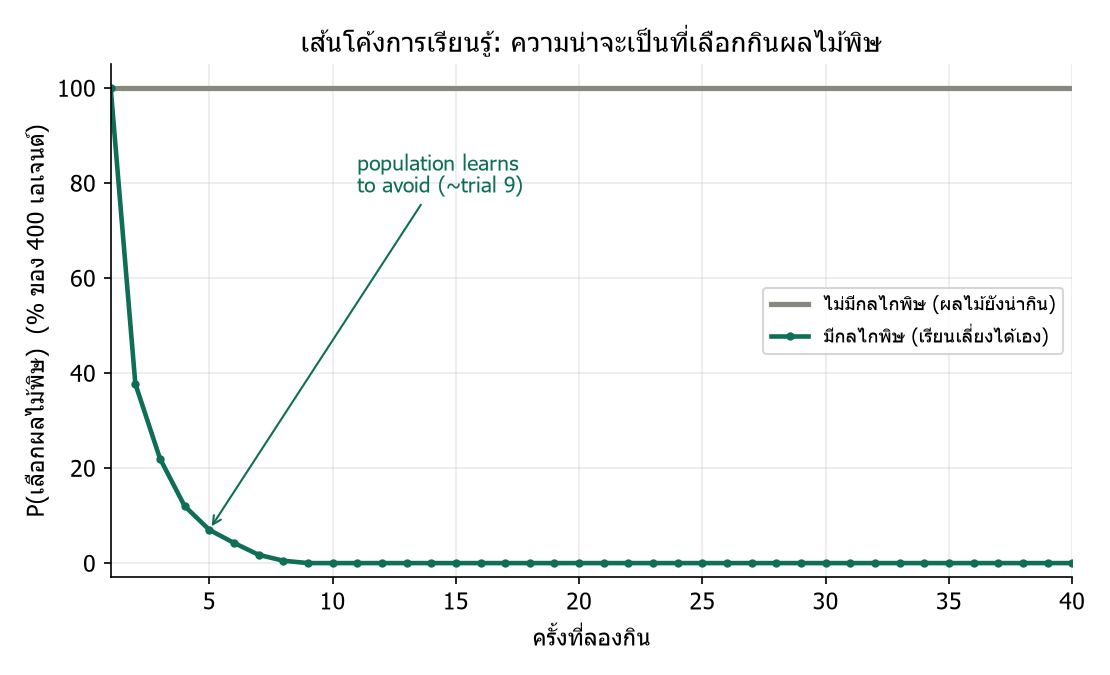
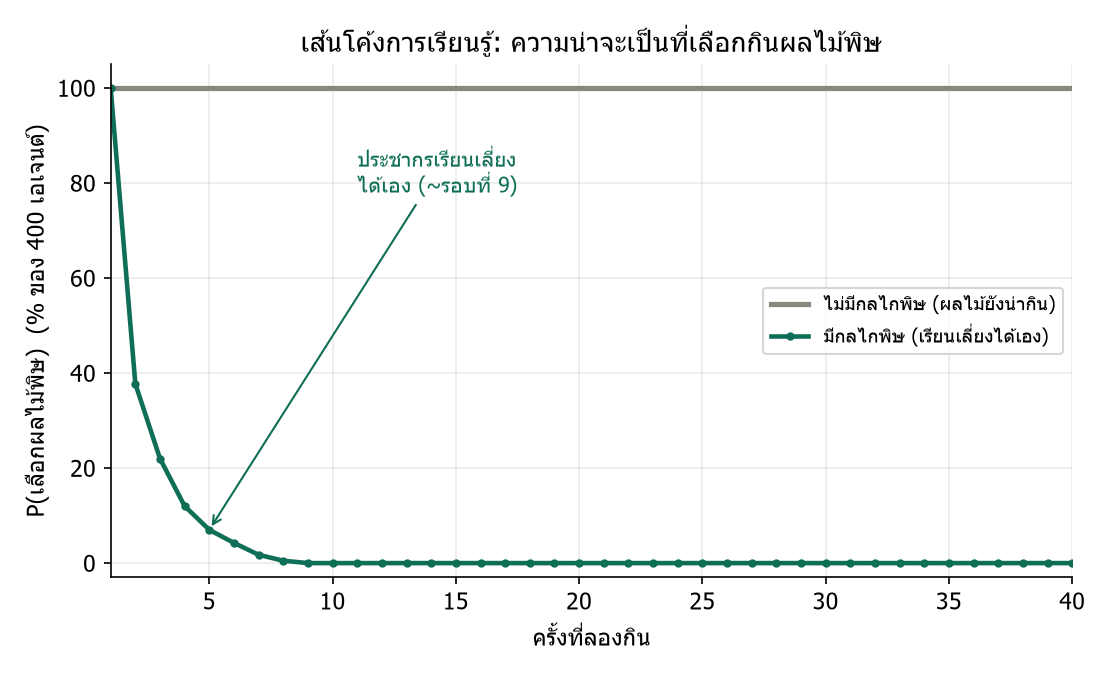
NSRU: rename project title (teacher review) + abstract, slides, video script
- Title -> "กับดักพิษแปรผัน: การศึกษาพฤติกรรมการเรียนรู้เพื่อหลีกเลี่ยงอันตรายของ
  ปัญญาประดิษฐ์ในสภาพแวดล้อมจำลอง" (reflects IV/DV per advisor) across report
  cover/inner-cover, standalone abstract, slide 1, video script header.
- Add standalone บทคัดย่อ (.docx/.pdf, 1 page), 15-min video script, and a
  10-slide Thai deck (pptxgenjs; figures embedded; narration in speaker notes).
- Translate the leftover English annotation in toxin_fig3 learning curve to Thai.

diff --git a/.codex-temp/build_nsru_slides.js b/.codex-temp/build_nsru_slides.js
@@ -1,0 +1,176 @@
+// NSRU presentation deck (10 slides, Thai) built from the video script.
+// Figures embedded from reports/figures/. Narration in speaker notes.
+const pptxgen = require("pptxgenjs");
+const FIG = "C:\\artificial-evolution\\reports\\figures\\";
+const OUT = "C:\\artificial-evolution\\reports\\nsru_slides_2026-07-11.pptx";
+
+const DARK="13312C", GREEN="0F6E56", RED="B2352E", AMBER="B7791F",
+      INK="22302E", MUTED="6A7B77", TINT="EAF3EF", REDTINT="F7E9E7",
+      GOLDTINT="F6EEDD", WHITE="FFFFFF";
+const F="Tahoma";
+const CW=13.33, CH=7.5, MX=0.6;
+
+const p=new pptxgen();
+p.layout="LAYOUT_WIDE";
+p.defineSlideMaster({ title:"BASE", background:{color:WHITE} });
+
+const shadow=()=>({type:"outer",color:"9AA6A2",blur:6,offset:2,angle:90,opacity:0.35});
+
+function badge(s,n,x,y,color){
+  s.addShape(p.ShapeType.ellipse,{x,y,w:0.62,h:0.62,fill:{color},line:{type:"none"}});
+  s.addText(String(n),{x,y,w:0.62,h:0.62,align:"center",valign:"middle",fontFace:F,fontSize:22,bold:true,color:WHITE,margin:0});
+}
+function heading(s,n,title){
+  badge(s,n,MX,0.5,GREEN);
+  s.addText(title,{x:MX+0.8,y:0.46,w:CW-MX*2-0.8,h:0.72,fontFace:F,fontSize:30,bold:true,color:INK,align:"left",valign:"middle",margin:0});
+}
+function stat(s,x,y,w,num,label,color,tint,fs){
+  const H=1.72;
+  s.addShape(p.ShapeType.roundRect,{x,y,w,h:H,fill:{color:tint},line:{type:"none"},rectRadius:0.1,shadow:shadow()});
+  s.addText(num,{x:x+0.05,y:y+0.14,w:w-0.1,h:0.82,align:"center",valign:"middle",fontFace:F,fontSize:fs||30,bold:true,color,margin:0});
+  s.addText(label,{x:x+0.1,y:y+0.98,w:w-0.2,h:0.64,align:"center",valign:"top",fontFace:F,fontSize:12,color:INK,margin:0});
+}
+function img(s,file,x,y,w,h){
+  s.addImage({path:FIG+file+".png",x,y,w,h,sizing:{type:"contain",w,h},shadow:shadow()});
+}
+function bullets(s,items,x,y,w,h,fs){
+  s.addText(items.map((t,i)=>({text:t,options:{bullet:{code:"2022",indent:14},breakLine:true,paraSpaceAfter:8,fontFace:F,fontSize:fs||16,color:INK}})),
+    {x,y,w,h,valign:"top",align:"left",margin:0});
+}
+
+// ---------- Slide 1: title (dark) ----------
+let s=p.addSlide();
+s.background={color:DARK};
+s.addText("กับดักพิษแปรผัน",{x:MX,y:1.2,w:8.6,h:1.0,fontFace:F,fontSize:42,bold:true,color:AMBER,align:"left",valign:"middle",margin:0});
+s.addText("การศึกษาพฤติกรรมการเรียนรู้เพื่อหลีกเลี่ยงอันตรายของปัญญาประดิษฐ์ในสภาพแวดล้อมจำลอง",
+  {x:MX,y:2.35,w:8.6,h:1.7,fontFace:F,fontSize:20,bold:true,color:WHITE,align:"left",valign:"top",margin:0});
+s.addText("บทเรียนความปลอดภัยของ AI ในโลกที่อันตรายเปลี่ยนตามเวลา",
+  {x:MX,y:4.15,w:8.3,h:0.5,fontFace:F,fontSize:15,italic:true,color:"AFC6BD",align:"left",margin:0});
+s.addText([{text:"นายชิษณุพงศ์ อินทร์จันทร์",options:{bold:true,breakLine:true}},{text:"โรงเรียนดีบุกพังงาวิทยายน",options:{color:"CFE3DA"}}],
+  {x:MX,y:5.9,w:7,h:1,fontFace:F,fontSize:16,color:WHITE,align:"left",margin:0});
+// right hook circle
+s.addShape(p.ShapeType.ellipse,{x:9.6,y:2.0,w:3.1,h:3.1,fill:{color:RED},line:{type:"none"},shadow:shadow()});
+s.addText([{text:"63–99%",options:{fontSize:44,bold:true,color:WHITE,breakLine:true}},{text:"AI ถูกหลอกให้จัด\nพิษเป็นอาหารดีที่สุด",options:{fontSize:13,color:"FBE3E0"}}],
+  {x:9.6,y:2.0,w:3.1,h:3.1,align:"center",valign:"middle",fontFace:F,margin:0});
+s.addNotes("สวัสดีครับ ผมชิษณุพงศ์ จากโรงเรียนดีบุกพังงาวิทยายน โครงงานของผมเริ่มจากคำถามเดียว — ถ้าเราปล่อยปัญญาประดิษฐ์ลงในโลกที่ไม่มีใครบอกอะไรเลย มันจะเรียนรู้เองได้ไหมว่าอะไรกินได้ อะไรเป็นพิษ และผมเจอสิ่งที่ไม่คาดคิด คือ พิษที่หายได้ตามเวลา กลับหลอกให้ AI กินพิษมากขึ้น ไม่ใช่น้อยลง");
+
+// ---------- Slide 2: motivation ----------
+s=p.addSlide(); heading(s,1,"ทำไมต้องเรียนเองโดยไม่มีป้าย?");
+bullets(s,[
+ "AI ที่เก่งที่สุดวันนี้ (เช่น GPT) เก่งเพราะมนุษย์ \"ปักป้าย\" ข้อมูลให้ล่วงหน้า",
+ "แต่ในโลกจริงหลายที่ มนุษย์เองก็ปักป้ายให้ไม่ได้ (พื้นที่ภัยพิบัติ ใต้ทะเล ดาวดวงอื่น)",
+ "ยิ่งกว่านั้น อันตรายมัก \"เปลี่ยนตามเวลา\" — ผลไม้ดิบมีพิษ พอสุกกินได้ เน่าเป็นพิษ",
+ "ใกล้ตัว: เห็ดป่าพิษที่คนไทยเก็บกินแล้วเสียชีวิตแทบทุกปี",
+],MX,1.7,6.6,3.8,17);
+s.addShape(p.ShapeType.roundRect,{x:7.7,y:2.0,w:5.0,h:3.4,fill:{color:TINT},line:{type:"none"},rectRadius:0.12,shadow:shadow()});
+s.addText([{text:"คำถามวิจัย",options:{fontSize:16,bold:true,color:GREEN,breakLine:true,paraSpaceAfter:10}},
+  {text:"ถ้าไม่มีป้ายให้ AI จะเรียนรู้เองได้ไหม และ \"ปลอดภัย\" แค่ไหน เมื่ออันตรายเปลี่ยนไปตามเวลา?",options:{fontSize:20,bold:true,color:INK}}],
+  {x:8.05,y:2.3,w:4.3,h:2.8,valign:"middle",align:"left",fontFace:F,margin:0});
+s.addNotes("AI ที่เก่งที่สุดวันนี้อย่าง GPT เก่งได้เพราะมนุษย์ป้อนข้อมูลที่ปักป้ายกำกับไว้ให้มหาศาล แต่ในโลกจริงหลายที่ มนุษย์เองก็ไม่รู้คำตอบและปักป้ายให้ไม่ได้ เช่น หุ่นยนต์กู้ภัยที่ต้องตัดสินเองว่าสารตรงนั้นอันตรายไหม ยิ่งไปกว่านั้น อันตรายในธรรมชาติมักเปลี่ยนตามเวลา ผลไม้ดิบมีพิษ พอสุกกินได้ เก็บนานก็เน่าเป็นพิษ ใกล้ตัวเราคือเห็ดป่าที่คนไทยเก็บกินแล้วเสียชีวิตแทบทุกปี คำถามคือ AI ที่เรียนรู้เองแบบง่ายจะรับมืออันตรายที่เปลี่ยนตามเวลาได้ไหม");
+
+// ---------- Slide 3: what I built ----------
+s=p.addSlide(); heading(s,2,"สิ่งที่สร้าง: โลกจำลองที่ไม่มีป้ายกำกับ");
+img(s,"fig_world_overview",6.0,1.55,6.9,4.25);
+bullets(s,[
+ "โลกจำลองสิ่งมีชีวิต 2 มิติ ที่ AI ต้องหากินเพื่ออยู่รอด",
+ "กฎเหล็ก: ไม่มีป้ายบอกว่าอะไรมีค่า/มีพิษ",
+ "AI เรียนเองจาก \"พลังงานสุทธิที่ได้รับจริง\"",
+ "ผ่านการทดสอบอัตโนมัติ 93/93 และรันซ้ำได้ผลเดิม",
+],MX,1.9,5.1,3.6,16);
+s.addNotes("ผมสร้างโลกจำลองสิ่งมีชีวิต 2 มิติ ที่ตัวละคร AI ต้องหากินเพื่ออยู่รอด กฎเหล็กคือไม่มีป้ายบอกอะไรเลย โลกไม่บอกว่าอะไรมีค่าหรือมีพิษ AI ต้องเรียนเองจากพลังงานสุทธิที่ได้รับจริง กินคำหนึ่งได้พลังงานเท่าไรก็จดจำค่าไว้ ครั้งต่อไปถึงตัดสินใจว่าจะกินหรือข้าม ระบบนี้ผ่านการทดสอบ 93 จาก 93 รายการ และรันซ้ำได้ค่าเดิม");
+
+// ---------- Slide 4: Act 1 food ----------
+s=p.addSlide(); heading(s,3,"องก์ 1 (รากฐาน): AI เรียนเลือกอาหารคุ้มค่าได้เอง");
+img(s,"fig_multiseed_seed_consumption_CI",MX,1.7,6.1,3.8);
+stat(s,7.0,1.72,1.8,"4.6×","กินค่าต่ำน้อยลง",GREEN,TINT,30);
+stat(s,8.95,1.72,1.8,"p<.001","ต่างกันจริง (10 ซีด)",GREEN,TINT,28);
+stat(s,10.9,1.72,1.8,"0/12","เมินโดยไม่เคยชิม",RED,REDTINT,30);
+s.addShape(p.ShapeType.roundRect,{x:7.0,y:3.75,w:5.7,h:1.95,fill:{color:GOLDTINT},line:{type:"none"},rectRadius:0.1,shadow:shadow()});
+s.addText([{text:"หลักฐานเชิงสาเหตุ: ",options:{bold:true,color:AMBER}},
+  {text:"ไม่มีเอเจนต์สักตัวที่เมินอาหารค่าต่ำโดยไม่เคยชิมอาหารที่ดีกว่าก่อน → พฤติกรรมมาจากประสบการณ์ตรง ไม่ใช่กฎที่เขียนใส่",options:{color:INK}}],
+  {x:7.25,y:3.9,w:5.2,h:1.65,valign:"middle",align:"left",fontFace:F,fontSize:14.5,margin:0});
+s.addNotes("ก่อนอื่นต้องพิสูจน์ว่ากลไกเรียนเองทำงานจริง ผมให้ AI อยู่ในโลกที่มีอาหาร 2 แบบ ค่าต่างกัน 5 เท่า โดยไม่บอกว่าอันไหนดีกว่า ผลคือกลุ่มที่เปิดการเรียนรู้กินอาหารค่าต่ำน้อยกว่า 4.6 เท่าเทียบกลุ่มที่ปิด ทดสอบ 10 รอบ ได้ p เท่ากับ 0.0002 และแยกขาดสมบูรณ์ และหลักฐานที่ผมภูมิใจที่สุด จากเอเจนต์ 12 ตัว ไม่มีสักตัวเดียวที่เมินอาหารค่าต่ำโดยไม่เคยชิมของที่ดีกว่าก่อน แปลว่าการเปลี่ยนพฤติกรรมมาจากประสบการณ์ตรงของแต่ละตัว ไม่ใช่กฎที่ผมเขียนใส่");
+
+// ---------- Slide 5: Act 1 constant toxin ----------
+s=p.addSlide(); heading(s,4,"องก์ 1 (ต่อ): เลี่ยง \"พิษคงที่\" ได้เอง");
+img(s,"toxin_fig3_learning_curve",MX,1.7,7.2,4.4);
+bullets(s,[
+ "ใส่อาหารที่มีพิษคงที่",
+ "AI เริ่มจากลองชิม พอรู้ว่าไม่คุ้ม → เลี่ยงเองตลอด",
+ "ความน่าจะเป็นที่เลือกกิน ~100% → ใกล้ 0% ในไม่กี่รอบ",
+ "ไม่ได้เขียนกฎให้เลี่ยง — เรียนจากผลจริงล้วน ๆ",
+],8.2,1.9,4.5,3.6,16);
+s.addNotes("ทีนี้ใส่อาหารที่มีพิษคงที่ AI เริ่มจากลองชิม พอรู้ว่าไม่คุ้มก็เลี่ยงเองตลอด ความน่าจะเป็นที่เลือกกินลดจากเกือบ 100% เหลือใกล้ศูนย์ภายในไม่กี่รอบ โดยที่ผมไม่ได้เขียนกฎให้เลี่ยงเลย มันเรียนจากผลจริงล้วน ๆ สรุปว่ากลไกเรียนรู้ของเราทำงานถูกต้องทั้งเรื่องคุณค่าอาหารและพิษคงที่ นี่คือรากฐาน");
+
+// ---------- Slide 6: Act 2 lure (wow) ----------
+s=p.addSlide(); heading(s,5,"องก์ 2 (หมัดเด็ด): \"พิษที่หายได้\" หลอกให้กินพิษมากขึ้น");
+img(s,"toxin_multiseed_ci",MX,1.55,8.2,3.35);
+stat(s,8.95,1.7,1.85,"63%","ถูกหลอกที่พิษ 30%",RED,REDTINT,32);
+stat(s,10.95,1.7,1.75,"99%","กับกฎ softmax",RED,REDTINT,32);
+s.addShape(p.ShapeType.roundRect,{x:MX,y:5.15,w:12.1,h:1.75,fill:{color:REDTINT},line:{type:"none"},rectRadius:0.1,shadow:shadow()});
+s.addText([{text:"อาหารสด = พิษ / เก็บไว้ = ปลอดภัย  →  AI มองไม่เห็น \"อายุ\" เรียนได้แค่ค่าเฉลี่ยที่สูงกว่าอาหารปลอดภัย  →  ",options:{color:INK}},
+  {text:"พลิกจากการ \"เลี่ยง\" เป็นการ \"ไล่ล่า\"",options:{bold:true,color:RED}},
+  {text:" (กินพิษจริงราว 30% ของมื้อ)",options:{color:INK}}],
+  {x:MX+0.25,y:5.35,w:11.6,h:1.35,valign:"middle",align:"left",fontFace:F,fontSize:17,margin:0});
+s.addNotes("แล้วนี่คือสิ่งที่ไม่คาดคิด ผมทำให้พิษเหมือนจริงขึ้น คืออาหารสดมีพิษ แต่เก็บไว้แล้วหายพิษและให้พลังงานสูง ปัญหาคือ AI มองไม่ออกว่าชิ้นไหนสดชิ้นไหนเก่า เห็นแค่ว่าเป็นผลไม้ มันเลยเรียนได้แค่ค่าเฉลี่ยของสองสภาพ ซึ่งดันสูงกว่าอาหารปลอดภัย ผลคือ AI จัดผลไม้พิษเป็นอาหารดีที่สุดแล้วมุ่งเข้าหา แม้พิษจะโผล่ถึง 30% ของครั้ง ก็ยังมี AI ถึง 63% ที่ถูกหลอก และกินพิษจริงราว 30% ของมื้อ พูดง่าย ๆ คือการที่พิษหายได้กลับด้านจากการเลี่ยงเป็นการไล่ล่า ความปลอดภัยแบบมีบางช่วงอันตรายกว่าพิษที่คงที่เสียอีก");
+
+// ---------- Slide 7: generality + window ----------
+s=p.addSlide(); heading(s,6,"ไม่ใช่ฟลุก และ AI เล็งช่วงปลอดภัยไม่ได้");
+img(s,"toxin_learner_comparison",MX,1.7,6.7,4.3);
+stat(s,7.6,1.7,2.4,"×4","กฎการเรียนรู้มาตรฐานที่ทดสอบ — ถูกหลอกทุกแบบ",GREEN,TINT);
+stat(s,10.25,1.7,2.45,"0%","แยก \"ช่วงปลอดภัย\" ของพิษไม่โมโนโทนิกไม่ได้เลย",RED,REDTINT);
+img(s,"toxin_window_sim_result",7.6,3.55,5.1,2.05);
+s.addNotes("เพื่อพิสูจน์ว่าไม่ใช่ข้อบกพร่องเฉพาะระบบผม ผมทดสอบซ้ำด้วยกฎการเรียนรู้มาตรฐาน 4 แบบ เกิด lure กับทุกแบบ และยิ่งกฎฉลาดสำรวจเก่ง ยิ่งถูกหลอกหนักขึ้น softmax ถูกหลอกสูงถึง 99% และเมื่อผมทำพิษให้ซับซ้อนขึ้น มีช่วงปลอดภัยตรงกลาง AI เล็งช่วงปลอดภัยนั้นไม่ได้เลย ความสามารถแยกเท่ากับ 0 เพราะกฎง่าย ๆ ว่าเก่ากว่าปลอดภัยกว่าใช้ไม่ได้อีกต่อไป");
+
+// ---------- Slide 8: why it matters ----------
+s=p.addSlide(); heading(s,7,"ทำไมสำคัญ: หลักการความปลอดภัย AI");
+s.addShape(p.ShapeType.roundRect,{x:MX,y:1.65,w:12.1,h:1.5,fill:{color:GREEN},line:{type:"none"},rectRadius:0.1,shadow:shadow()});
+s.addText([{text:"AI ที่ตัดสินจาก \"ชนิด\" ของสิ่งของ จะพลาดเมื่ออันตรายขึ้นกับ \"สภาพ\" (อายุ/เวลา) ที่มองไม่เห็น",options:{bold:true,color:WHITE}}],
+  {x:MX+0.3,y:1.75,w:11.5,h:1.3,valign:"middle",align:"left",fontFace:F,fontSize:20,margin:0});
+const cards=[["เห็ดพิษ / อาหารหมักดอง","ระบบเตือนภัยที่เรียนแบบ \"ค่าเฉลี่ย\" อาจตัดสินผิดด้วยกลไก lure เดียวกัน"],
+  ["หุ่นยนต์กู้ภัย/สำรวจ","ต้องตัดสินความปลอดภัยเองในที่ที่อันตรายโผล่เป็นช่วง ๆ"],
+  ["บทเรียนออกแบบ AI","ต้องให้ AI รับรู้ \"สภาพ/อายุ\" ไม่ใช่แค่ \"ชนิด\""]];
+cards.forEach((c,i)=>{
+  const x=MX+i*4.05;
+  s.addShape(p.ShapeType.roundRect,{x,y:3.5,w:3.8,h:3.1,fill:{color:TINT},line:{type:"none"},rectRadius:0.1,shadow:shadow()});
+  s.addShape(p.ShapeType.ellipse,{x:x+0.3,y:3.8,w:0.7,h:0.7,fill:{color:GREEN},line:{type:"none"}});
+  s.addText(String(i+1),{x:x+0.3,y:3.8,w:0.7,h:0.7,align:"center",valign:"middle",fontFace:F,fontSize:20,bold:true,color:WHITE,margin:0});
+  s.addText([{text:c[0],options:{fontSize:16,bold:true,color:INK,breakLine:true,paraSpaceAfter:8}},{text:c[1],options:{fontSize:14,color:MUTED}}],
+    {x:x+0.3,y:4.7,w:3.2,h:1.7,valign:"top",align:"left",fontFace:F,margin:0});
+});
+s.addNotes("ข้อค้นพบนี้ให้หลักการความปลอดภัย AI ที่ใช้ได้กว้าง AI ที่ตัดสินจากชนิดของสิ่งของจะพลาดเมื่ออันตรายขึ้นกับสภาพอย่างอายุหรือเวลาที่มันมองไม่เห็น และอันตรายที่โผล่เป็นบางช่วงมักถูกประเมินต่ำและอันตรายกว่าอันตรายที่คงที่ เพราะมันดึงค่าเฉลี่ยให้ดูดีแล้วล่อเข้าไป เรื่องนี้สำคัญกับ AI คัดกรองความปลอดภัยของอาหารหรือสิ่งแวดล้อม เช่น ระบบเตือนเห็ดพิษ อาหารหมักดองที่ปลอดภัยเป็นช่วงเวลา หรือหุ่นยนต์ที่ทำงานในที่ที่อันตรายเปลี่ยนไปเรื่อย ๆ");
+
+// ---------- Slide 9: honesty ----------
+s=p.addSlide(); heading(s,8,"ความซื่อสัตย์: อ้างได้ vs ยังไม่ควรอ้าง");
+s.addShape(p.ShapeType.roundRect,{x:MX,y:1.7,w:6.0,h:4.6,fill:{color:TINT},line:{type:"none"},rectRadius:0.1,shadow:shadow()});
+s.addText("✓ อ้างได้ (พิสูจน์แล้ว)",{x:MX+0.3,y:1.9,w:5.4,h:0.5,fontFace:F,fontSize:18,bold:true,color:GREEN,align:"left",margin:0});
+bullets(s,[
+ "AI เรียนเลือกอาหารคุ้มค่า/เลี่ยงพิษคงที่ได้เอง (หลายซีด + control)",
+ "การเรียนต่อชนิดถูกล่อโดยพิษที่หายได้ — ทั่วไปข้ามกฎ 4 แบบ",
+ "แยกช่วงปลอดภัย = 0 เป็นผลเชิงโครงสร้าง (ไม่ขึ้นกับกฎ)",
+],MX+0.3,2.5,5.4,3.6,15);
+s.addShape(p.ShapeType.roundRect,{x:6.9,y:1.7,w:5.8,h:4.6,fill:{color:REDTINT},line:{type:"none"},rectRadius:0.1,shadow:shadow()});
+s.addText("✕ ยังไม่ควรอ้าง",{x:7.2,y:1.9,w:5.2,h:0.5,fontFace:F,fontSize:18,bold:true,color:RED,align:"left",margin:0});
+bullets(s,[
+ "AI \"เข้าใจ\" หรือมีเจตนา/รู้คิด",
+ "AI วางแผน/ตั้งใจกินพิษ หรือแปรรูปอาหารได้แล้ว",
+ "ต้นทุนการอยู่รอดจริง — ผลนี้วัดจาก \"ค่าที่รับรู้\" ในสภาพควบคุม ยังไม่วัดการตายจริง",
+],7.2,2.5,5.2,3.6,15);
+s.addNotes("ผมขอพูดตรง ๆ ว่าอะไรพิสูจน์แล้วและอะไรยังไม่ ที่พิสูจน์แล้วคือ AI เรียนเลือกอาหารและเลี่ยงพิษคงที่ได้เอง และการเรียนแบบต่อชนิดถูกหลอกด้วยพิษที่หายได้จริง ส่วนที่ยังไม่อ้างคือ ผมไม่ได้บอกว่า AI เข้าใจหรือมีเจตนา และผลนี้วัดจากค่าที่ AI รับรู้ในสภาพควบคุม ยังไม่ได้วัดการตายจริงในประชากรที่แข่งขัน ความซื่อตรงตรงนี้คือจุดแข็งของงาน");
+
+// ---------- Slide 10: conclusion (dark) ----------
+s=p.addSlide(); s.background={color:DARK};
+s.addText("สรุป",{x:MX,y:0.7,w:6,h:0.8,fontFace:F,fontSize:30,bold:true,color:AMBER,align:"left",margin:0});
+s.addText([
+ {text:"ปัญญาประดิษฐ์เรียนรู้เองได้จริงโดยไม่ต้องมีป้าย ",options:{color:WHITE,breakLine:true,paraSpaceAfter:10}},
+ {text:"แต่เมื่ออันตรายเปลี่ยนตามเวลา มันถูกหลอกให้ไล่ล่าอันตรายได้ (สูงถึง 99%)",options:{color:"FBE3E0",breakLine:true,paraSpaceAfter:10}},
+ {text:"ทางแก้: ให้ AI รับรู้ \"สัญญาณบอกสภาพ\" (เช่น ความสด) ไม่ใช่ปักป้ายทุกอย่าง",options:{color:"CFE3DA"}},
+],{x:MX,y:1.7,w:12.1,h:2.6,fontFace:F,fontSize:22,bold:true,align:"left",valign:"top",margin:0});
+s.addShape(p.ShapeType.roundRect,{x:MX,y:4.5,w:12.1,h:1.3,fill:{color:"1E4A40"},line:{type:"none"},rectRadius:0.1});
+s.addText([{text:"งานต่อไป: ",options:{bold:true,color:AMBER}},{text:"ทดสอบว่า AI จะเรียนที่จะ \"เก็บอาหารไว้ให้หายพิษก่อนกิน\" ได้เองไหม (store-to-detoxify)",options:{color:WHITE}}],
+  {x:MX+0.3,y:4.6,w:11.5,h:1.1,valign:"middle",align:"left",fontFace:F,fontSize:17,margin:0});
+s.addText("ขอบคุณครับ — นายชิษณุพงศ์ อินทร์จันทร์ · โรงเรียนดีบุกพังงาวิทยายน",
+  {x:MX,y:6.4,w:12.1,h:0.6,fontFace:F,fontSize:16,color:"AFC6BD",align:"left",margin:0});
+s.addNotes("สรุปคือ ปัญญาประดิษฐ์เรียนรู้เองได้จริงโดยไม่ต้องมีป้าย แต่เมื่ออันตรายเปลี่ยนตามเวลา มันถูกหลอกให้ไล่ล่าอันตรายได้ ทางแก้ไม่ใช่กลับไปปักป้ายทุกอย่าง แต่คือให้ AI รับรู้สัญญาณบอกสภาพ เช่น ความสด งานต่อไปของผมคือทดสอบว่า AI จะเรียนรู้ที่จะเก็บอาหารไว้ให้หายพิษก่อนกินได้เองไหม ขอบคุณครับ");
+
+p.writeFile({fileName:OUT}).then(f=>console.log("wrote",f));

diff --git a/scripts/make_aging_toxin_figures.py b/scripts/make_aging_toxin_figures.py
@@ -288,7 +288,7 @@ def fig_toxin_learning_curve():
     ax.set_xlabel("ครั้งที่ลองกิน"); ax.set_ylabel("P(เลือกผลไม้พิษ)  (% ของ 400 เอเจนต์)")
     ax.legend(fontsize=9, loc="center right")
     ax.set_xlim(1, trials); ax.set_ylim(-3, 105)
-    ax.annotate("population learns\nto avoid (~trial 9)", xy=(5, 100 * on[4]),
+    ax.annotate("ประชากรเรียนเลี่ยง\nได้เอง (~รอบที่ 9)", xy=(5, 100 * on[4]),
                 xytext=(11, 78), fontsize=10, color=C["new"], ha="left",
                 arrowprops=dict(arrowstyle="->", color=C["new"]))
     fig.savefig(OUT / "toxin_fig3_learning_curve.png"); plt.close(fig)

diff --git a/reports/nsru_video_script_2026-07-11.th.md b/reports/nsru_video_script_2026-07-11.th.md
@@ -1,0 +1,96 @@
+# สคริปต์วิดีโอนำเสนอ NSRU (≤ 15 นาที)
+
+**โครงงาน:** กับดักพิษแปรผัน: การศึกษาพฤติกรรมการเรียนรู้เพื่อหลีกเลี่ยงอันตรายของปัญญาประดิษฐ์ในสภาพแวดล้อมจำลอง
+**ผู้นำเสนอ:** นายชิษณุพงศ์ อินทร์จันทร์ · โรงเรียนดีบุกพังงาวิทยายน
+
+> วิธีใช้: อัดหน้าจอสไลด์ + เสียงพูด แต่ละสไลด์บอกไว้ว่า **[โชว์]** อะไร และ **[พูด]** ว่าอะไร เวลารวมประมาณ 13 นาที (เผื่อ buffer ใต้ 15) พูดช้า ๆ ชัด ๆ ได้ ปรับคำให้เป็นธรรมชาติของตัวเองได้เลย
+
+---
+
+## สไลด์ 1 — เปิด (0:00–0:45)
+
+**[โชว์]** ชื่อโครงงาน + ชื่อผู้จัดทำ/โรงเรียน + ภาพโลกจำลอง (`fig_world_overview.png`) จาง ๆ เป็นพื้นหลัง
+
+**[พูด]** "สวัสดีครับ ผมชิษณุพงศ์ จากโรงเรียนดีบุกพังงาวิทยายน โครงงานของผมเริ่มจากคำถามเดียว — *ถ้าเราปล่อยปัญญาประดิษฐ์ลงในโลกที่ไม่มีใครบอกอะไรเลย มันจะเรียนรู้เองได้ไหมว่าอะไรกินได้ อะไรเป็นพิษ* และผมเจอสิ่งที่ไม่คาดคิด คือ *พิษที่หายได้ตามเวลา กลับหลอกให้ AI กินพิษมากขึ้น ไม่ใช่น้อยลง*"
+
+---
+
+## สไลด์ 2 — ทำไมถึงสำคัญ (0:45–2:15)
+
+**[โชว์]** ไอคอน GPT/AI + รูปพื้นที่ภัยพิบัติ/เห็ดป่า + คำว่า "อันตรายเปลี่ยนตามเวลา"
+
+**[พูด]** "AI ที่เก่งที่สุดวันนี้อย่าง GPT เก่งได้เพราะมนุษย์ป้อนข้อมูลที่ *ปักป้ายกำกับ* ไว้ให้มหาศาล แต่ในโลกจริงหลายที่ มนุษย์เองก็ไม่รู้คำตอบและปักป้ายให้ไม่ได้ เช่น หุ่นยนต์กู้ภัยที่ต้องตัดสินเองว่าสารตรงนั้นอันตรายไหม ยิ่งไปกว่านั้น *อันตรายในธรรมชาติมักเปลี่ยนตามเวลา* — ผลไม้ดิบมีพิษ พอสุกกินได้ เก็บนานก็เน่าเป็นพิษ ใกล้ตัวเราคือเห็ดป่าที่คนไทยเก็บกินแล้วเสียชีวิตแทบทุกปี คำถามคือ AI ที่เรียนรู้เองแบบง่าย ๆ จะรับมือ *อันตรายที่เปลี่ยนตามเวลา* แบบนี้ได้ไหม"
+
+---
+
+## สไลด์ 3 — สิ่งที่สร้าง (2:15–3:45)
+
+**[โชว์]** ภาพโลกจำลอง (`fig_world_overview.png`) เต็มจอ
+
+**[พูด]** "ผมสร้างโลกจำลองสิ่งมีชีวิต 2 มิติ ที่ตัวละคร AI ต้องหากินเพื่ออยู่รอด กฎเหล็กคือ *ไม่มีป้ายบอกอะไรเลย* — โลกไม่บอกว่าอะไรมีค่าหรือมีพิษ AI ต้องเรียนเองจาก *พลังงานสุทธิที่ได้รับจริง* กินคำหนึ่งได้พลังงานเท่าไร ก็จดจำค่าของอาหารชนิดนั้นไว้ ครั้งต่อไปถึงตัดสินใจว่าจะกินหรือข้าม ระบบนี้ผ่านการทดสอบอัตโนมัติ 93 จาก 93 รายการ และผลทุกอย่างรันซ้ำหลายรอบได้ค่าเดิม"
+
+---
+
+## สไลด์ 4 — องก์ 1: AI เรียนเลือกอาหารได้เอง (3:45–5:30)
+
+**[โชว์]** `fig_multiseed_seed_consumption_CI.png` แล้วตามด้วย `fig_taste_vs_skip_2x2.png`
+
+**[พูด]** "ก่อนอื่นต้องพิสูจน์ว่ากลไก *เรียนเอง* ทำงานจริง ผมให้ AI อยู่ในโลกที่มีอาหาร 2 แบบ ค่าต่างกัน 5 เท่า โดยไม่บอกว่าอันไหนดีกว่า ผลคือกลุ่มที่เปิดการเรียนรู้ กินอาหารค่าต่ำ *น้อยกว่า 4.6 เท่า* เทียบกับกลุ่มที่ปิด — ทดสอบ 10 รอบ ได้ค่านัยสำคัญ p เท่ากับ 0.0002 และแยกขาดสมบูรณ์ [ชี้กราฟซ้าย] และหลักฐานที่ผมภูมิใจที่สุด [เปลี่ยนเป็นภาพ 2×2] — จากเอเจนต์ 12 ตัว *ไม่มีสักตัวเดียว* ที่เมินอาหารค่าต่ำโดยไม่เคยชิมของที่ดีกว่าก่อน ช่องนี้ว่างเปล่า เท่ากับศูนย์ แปลว่าการเปลี่ยนพฤติกรรมมาจาก *ประสบการณ์ตรงของแต่ละตัว* ไม่ใช่กฎที่ผมเขียนใส่"
+
+---
+
+## สไลด์ 5 — องก์ 1 (ต่อ): เลี่ยงพิษคงที่ได้เอง (5:30–6:30)
+
+**[โชว์]** `toxin_fig3_learning_curve.png`
+
+**[พูด]** "ทีนี้ใส่อาหารที่มี *พิษคงที่* AI เริ่มจากลองชิม พอรู้ว่าไม่คุ้ม ก็เลี่ยงเองตลอด ความน่าจะเป็นที่เลือกกินลดจากเกือบ 100% เหลือใกล้ศูนย์ภายในไม่กี่รอบ โดยที่ผมไม่ได้เขียนกฎให้เลี่ยงเลย มันเรียนจากผลจริงล้วน ๆ — สรุปว่ากลไกเรียนรู้ของเราทำงานถูกต้องทั้งเรื่องคุณค่าอาหารและพิษคงที่ นี่คือรากฐาน"
+
+---
+
+## สไลด์ 6 — องก์ 2: หมัดเด็ด "พิษที่หายได้" (6:30–8:30)
+
+**[โชว์]** `toxin_multiseed_ci.png` (เน้นแผงซ้าย)
+
+**[พูด]** "แล้วนี่คือสิ่งที่ไม่คาดคิด ผมทำให้พิษ *เหมือนจริง* ขึ้น คืออาหาร *สด* มีพิษ แต่ *เก็บไว้แล้วหายพิษ* และให้พลังงานสูง ปัญหาคือ AI มองไม่ออกว่าชิ้นไหนสดชิ้นไหนเก่า เห็นแค่ว่าเป็น 'ผลไม้' มันเลยเรียนได้แค่ *ค่าเฉลี่ย* ของสองสภาพ ซึ่งดันสูงกว่าอาหารปลอดภัย ผลคือ AI *จัดผลไม้พิษเป็นอาหารดีที่สุด* แล้วมุ่งเข้าหา — แม้พิษจะโผล่ถึง 30% ของครั้ง ก็ยังมี AI ถึง 63% ที่ถูกหลอก และกินพิษจริงราว 30% ของมื้อ พูดง่าย ๆ คือ *การที่พิษหายได้ กลับด้านจากการเลี่ยง เป็นการไล่ล่า* — ความปลอดภัยแบบมีบางช่วง อันตรายกว่าพิษที่คงที่เสียอีก"
+
+---
+
+## สไลด์ 7 — ไม่ใช่ฟลุก + เล็งไม่ได้ (8:30–9:45)
+
+**[โชว์]** `toxin_learner_comparison.png` แล้วตามด้วย `toxin_window_sim_result.png`
+
+**[พูด]** "เพื่อพิสูจน์ว่าไม่ใช่ข้อบกพร่องเฉพาะระบบผม ผมทดสอบซ้ำด้วยกฎการเรียนรู้มาตรฐาน 4 แบบ [ชี้กราฟ] เกิด lure กับทุกแบบ และ *ยิ่งกฎฉลาดสำรวจเก่ง ยิ่งถูกหลอกหนักขึ้น* — softmax ถูกหลอกสูงถึง 99% และเมื่อผมทำพิษให้ซับซ้อนขึ้น มี *ช่วงปลอดภัยตรงกลาง* [เปลี่ยนภาพ] AI เล็งช่วงปลอดภัยนั้นไม่ได้เลย ความสามารถแยกเท่ากับ 0 เพราะกฎง่าย ๆ ว่า 'เก่ากว่าปลอดภัยกว่า' ใช้ไม่ได้อีกต่อไป"
+
+---
+
+## สไลด์ 8 — ทำไมสำคัญ / ประโยชน์ (9:45–11:15)
+
+**[โชว์]** หลักการเป็นข้อความใหญ่ + ไอคอนหุ่นยนต์/เห็ดพิษ/อาหารหมักดอง
+
+**[พูด]** "ข้อค้นพบนี้ให้ *หลักการความปลอดภัย AI* ที่ใช้ได้กว้าง — *AI ที่ตัดสินจาก 'ชนิด' ของสิ่งของ จะพลาดเมื่ออันตรายขึ้นกับ 'สภาพ' อย่างอายุหรือเวลา ที่มันมองไม่เห็น* และ *อันตรายที่โผล่เป็นบางช่วง มักถูกประเมินต่ำและอันตรายกว่าอันตรายที่คงที่* เพราะมันดึงค่าเฉลี่ยให้ดูดีแล้วล่อเข้าไป เรื่องนี้สำคัญกับ AI คัดกรองความปลอดภัยของอาหารหรือสิ่งแวดล้อม เช่น ระบบเตือนเห็ดพิษ อาหารหมักดองที่ปลอดภัยเป็นช่วงเวลา หรือหุ่นยนต์ที่ทำงานในที่ที่อันตรายเปลี่ยนไปเรื่อย ๆ"
+
+---
+
+## สไลด์ 9 — ความซื่อสัตย์ / ข้อจำกัด (11:15–12:15)
+
+**[โชว์]** ตาราง "อ้างได้ / ยังไม่ควรอ้าง"
+
+**[พูด]** "ผมขอพูดตรง ๆ ว่าอะไร *พิสูจน์แล้ว* และอะไร *ยังไม่* — ที่พิสูจน์แล้วคือ AI เรียนเลือกอาหารและเลี่ยงพิษคงที่ได้เอง และการเรียนแบบต่อชนิดถูกหลอกด้วยพิษที่หายได้จริง ส่วนที่ *ยังไม่อ้าง* คือ ผมไม่ได้บอกว่า AI เข้าใจหรือมีเจตนา และผลนี้วัดจาก *ค่าที่ AI รับรู้* ในสภาพควบคุม ยังไม่ได้วัดการตายจริงในประชากรที่แข่งขัน — ความซื่อตรงตรงนี้คือจุดแข็งของงาน"
+
+---
+
+## สไลด์ 10 — สรุป + งานต่อไป (12:15–13:15)
+
+**[โชว์]** ประโยคสรุป + ภาพวงจรการเรียนรู้
+
+**[พูด]** "สรุปคือ ปัญญาประดิษฐ์เรียนรู้เองได้จริงโดยไม่ต้องมีป้าย แต่เมื่ออันตรายเปลี่ยนตามเวลา มันถูกหลอกให้ไล่ล่าอันตรายได้ ทางแก้ไม่ใช่กลับไปปักป้ายทุกอย่าง แต่คือให้ AI *รับรู้สัญญาณบอกสภาพ* เช่น ความสด งานต่อไปของผมคือทดสอบว่า AI จะเรียนรู้ที่จะ *เก็บอาหารไว้ให้หายพิษก่อนกิน* ได้เองไหม ขอบคุณครับ"
+
+---
+
+## เช็กลิสต์ก่อนอัด
+
+- คลิปยาว ≤ 15 นาที ขนาดไฟล์ ≤ 500 MB
+- ตั้งชื่อไฟล์ตามระเบียบ: `เลขที่_ชื่อโรงเรียน_ชื่อโครงงาน`
+- พูดชัด เน้นคำที่ทำตัวหนาในสคริปต์ (ตัวเลข 4.6 เท่า / 63% / 99% / 0%)
+- โชว์รูปจาก `reports/figures/` ตามที่ระบุแต่ละสไลด์
+- ถ้ามีเวลาเหลือ เพิ่มคลิปสั้น ๆ ให้เห็นเอเจนต์เดินในโลกจำลอง (ถ้ามี renderer)

diff --git a/reports/nsru_abstract_2026-07-11.th.md b/reports/nsru_abstract_2026-07-11.th.md
@@ -1,0 +1,15 @@
+# บทคัดย่อโครงงานวิทยาศาสตร์
+
+**ชื่อโครงงาน:** กับดักพิษแปรผัน: การศึกษาพฤติกรรมการเรียนรู้เพื่อหลีกเลี่ยงอันตรายของปัญญาประดิษฐ์ในสภาพแวดล้อมจำลอง
+
+**ผู้จัดทำ:** นายชิษณุพงศ์ อินทร์จันทร์ · **ครูที่ปรึกษา:** นายบพิธ มังคะลา
+
+**โรงเรียน:** ดีบุกพังงาวิทยายน สพม.พังงา ภูเก็ต ระนอง · **ประเภท:** ทดลอง (ม.ปลาย)
+
+ปัญญาประดิษฐ์ที่เก่งวันนี้ เช่น GPT เก่งเพราะมนุษย์ปักป้ายข้อมูลให้ แต่ในโลกจริง เช่น พื้นที่ภัยพิบัติหรือดาวดวงอื่น มนุษย์ปักป้ายให้ไม่ได้ และอันตรายยังเปลี่ยนตามเวลา โครงงานนี้จึงสร้างโลกจำลองสิ่งมีชีวิต 2 มิติที่ไม่มีป้ายกำกับ ให้เอเจนต์ปัญญาประดิษฐ์เรียนคุณค่าและพิษของอาหารเองจาก "พลังงานสุทธิที่ได้รับจริง" เพื่อตอบว่ามันเรียนเองได้ไหมเมื่อไม่มีป้าย และปลอดภัยแค่ไหน
+
+พบว่าในสภาพปกติ เอเจนต์ **เรียนเลือกอาหารที่คุ้มค่ากว่าได้เอง** (ลดการกินอาหารค่าต่ำ 4.6 เท่า, 10 ซีด, p = 0.0002; ไม่มีตัวใดเมินโดยไม่เคยชิมของที่ดีกว่า 0/12) และเลี่ยงพิษคงที่ได้เอง แต่เมื่อทำให้พิษเปลี่ยนตามเวลา (สด = มีพิษ, เก่า = ปลอดภัย) เอเจนต์ที่มองไม่เห็น "อายุ" อาหารเรียนได้แค่ค่าเฉลี่ยที่สูงกว่าอาหารปลอดภัย จึง **จัดผลไม้พิษเป็นอาหารดีที่สุด** สูงถึง 63% (และ 99% กับ softmax) กินพิษจริงราว 30% ของมื้อ เกิดกับกฎการเรียนรู้ทั้ง 4 แบบ และเมื่อพิษไม่โมโนโทนิกก็แยกช่วงปลอดภัยได้ 0% (หลายซีด 95% CI, ผ่านทดสอบ 93/93)
+
+ข้อสรุปคือหลักการความปลอดภัย **ปัญญาประดิษฐ์ที่ตัดสินจาก "ชนิด" จะพลาดเมื่ออันตรายขึ้นกับ "สภาพ" (อายุ/เวลา) ที่มองไม่เห็น** และอันตรายที่เกิดเป็นบางช่วงอาจอันตรายกว่าอันตรายที่คงที่ ทางแก้คือให้ปัญญาประดิษฐ์รับรู้สัญญาณบอกสภาพ ไม่ใช่ปักป้ายทุกอย่าง
+
+**คำสำคัญ:** Artificial Life, การเรียนรู้จากประสบการณ์, การเลี่ยงพิษ, ความปลอดภัยของปัญญาประดิษฐ์

diff --git a/reports/nsru_report_food_toxin_2026-07-11.th.md b/reports/nsru_report_food_toxin_2026-07-11.th.md
@@ -2,8 +2,8 @@
 
 ## รายงานโครงงานวิทยาศาสตร์
 
-**AI ที่เรียนรู้เองว่าอะไรกินได้และอะไรเป็นพิษ และกับดักของ "พิษที่หายได้":**
-**บทเรียนความปลอดภัยจากโลกจำลองสิ่งมีชีวิตที่ไม่มีป้ายกำกับ (Artificial Evolution)**
+**กับดักพิษแปรผัน:**
+**การศึกษาพฤติกรรมการเรียนรู้เพื่อหลีกเลี่ยงอันตรายของปัญญาประดิษฐ์ในสภาพแวดล้อมจำลอง**
 
 เนื่องในการแข่งขันวิทยาศาสตร์วิชาการ ครั้งที่ 5 ชิงถ้วยพระราชทาน
 สมเด็จพระกนิษฐาธิราชเจ้า กรมสมเด็จพระเทพรัตนราชสุดาฯ สยามบรมราชกุมารี
@@ -28,8 +28,8 @@
 
 ## รายงานโครงงานวิทยาศาสตร์
 
-**AI ที่เรียนรู้เองว่าอะไรกินได้และอะไรเป็นพิษ และกับดักของ "พิษที่หายได้":**
-**บทเรียนความปลอดภัยจากโลกจำลองสิ่งมีชีวิตที่ไม่มีป้ายกำกับ (Artificial Evolution)**
+**กับดักพิษแปรผัน:**
+**การศึกษาพฤติกรรมการเรียนรู้เพื่อหลีกเลี่ยงอันตรายของปัญญาประดิษฐ์ในสภาพแวดล้อมจำลอง**
 
 เนื่องในการแข่งขันวิทยาศาสตร์วิชาการ ครั้งที่ 5 ชิงถ้วยพระราชทาน
 สมเด็จพระกนิษฐาธิราชเจ้า กรมสมเด็จพระเทพรัตนราชสุดาฯ สยามบรมราชกุมารี